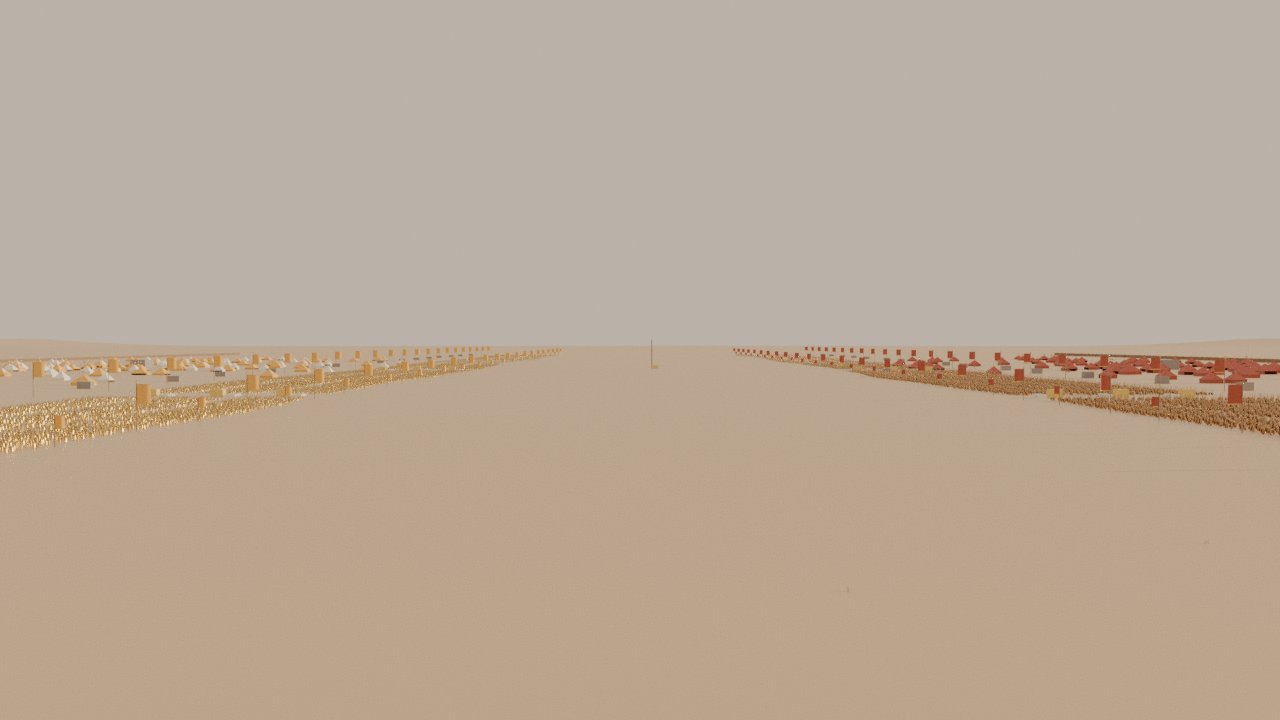
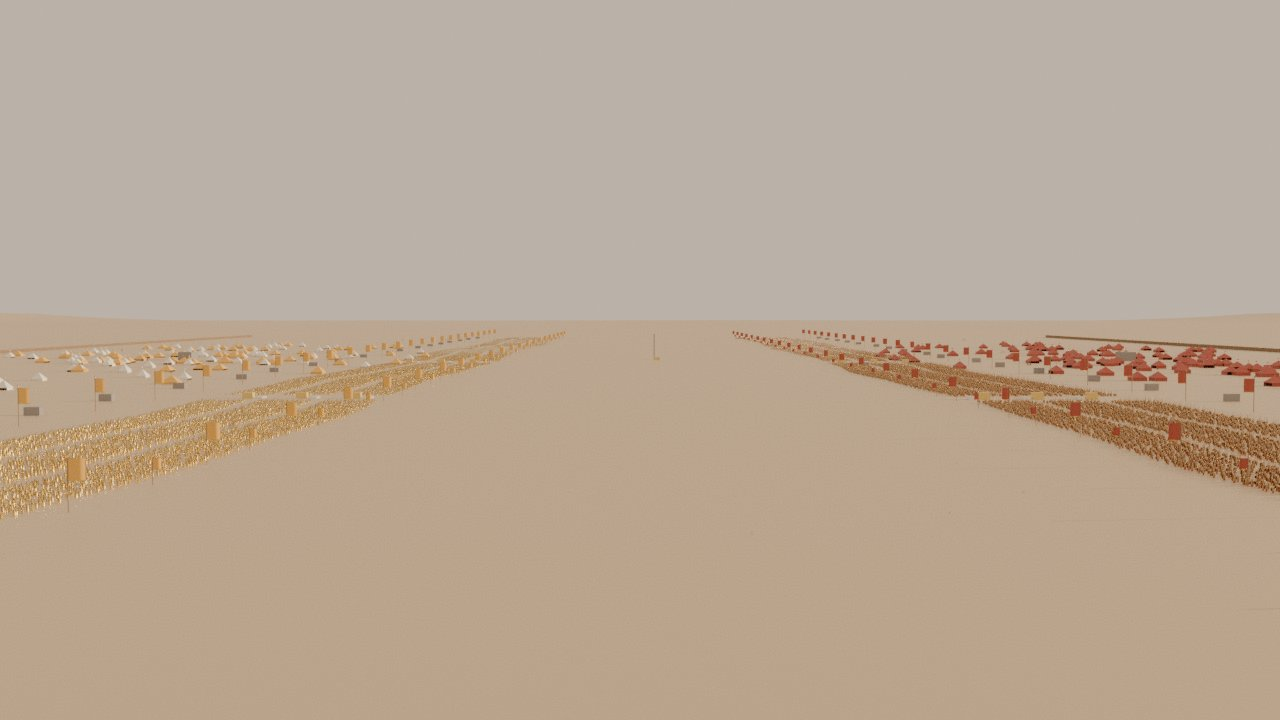
Kurukshetra v3: wide camera back to 30 m height
Claude-Session: https://claude.ai/code/session_01PKcboc4x8ZSGgB8Ht9qg6G

Changed region(s): [[0.0, 0.4583, 0.4688, 0.7333], [0.5625, 0.4278, 1.0, 0.7028]]

diff --git a/world/kurukshetra/layout.py b/world/kurukshetra/layout.py
@@ -139,7 +139,7 @@ def build(per_side):
                        "t": xf(-1.8 + i * 1.2, 4.2, 0, 0)})
 
     cameras = [
-        {"label": "KRK_CAM_Wide", "loc": xf(-580, -8, 16)[:3], "rot": [-1.0, 0.0, 0.0], "fov": 62,
+        {"label": "KRK_CAM_Wide", "loc": xf(-660, -10, 30)[:3], "rot": [-2.5, 0.0, 0.0], "fov": 60,
          "note": "Establishing: both hosts across the empty strip, low sun behind the Kaurava side"},
         {"label": "KRK_CAM_HeroChariot", "loc": xf(-7, -11, 1.4)[:3], "rot": [6.0, 57.0, 0.0], "fov": 50,
          "note": "Low hero angle on Arjuna's chariot alone in the middle ground (SH080)"},
